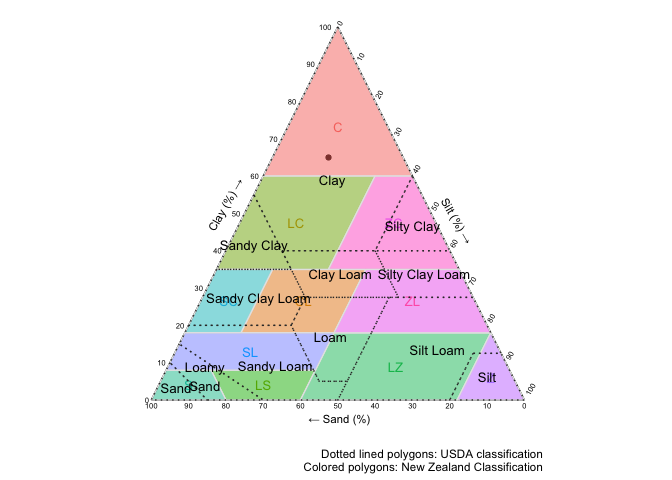
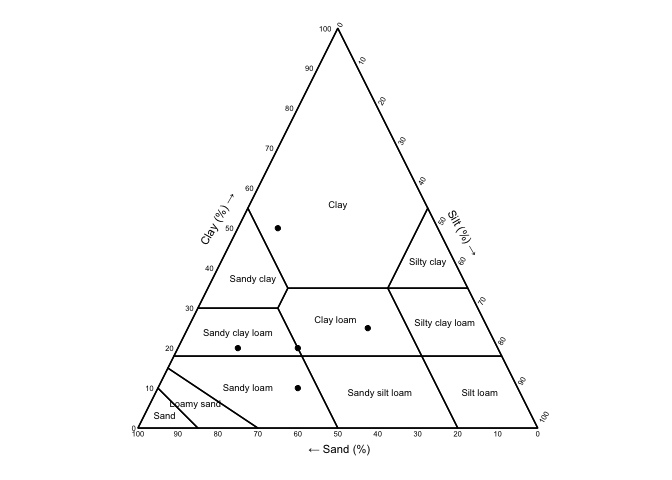
add UK class

Changed region(s): [[0.1875, 0.0312, 0.8125, 1.0]]

diff --git a/README.md b/README.md
@@ -8,7 +8,7 @@ please cite this repository. Hope it is useful!
 
 ## Acknowledgements
 
-The code was developed based on the ggplot_piper functions written by
+The code was development based on the ggplot_piper functions written by
 [Jonh Dorian](https://gist.github.com/johnDorian/5561272) and inspired
 by the R package [ggtern](https://github.com/nicholasehamilton/ggtern).
 Thanks for sharing your knowledge. Also, thanks for the X users that
@@ -108,11 +108,19 @@ ggsoiltexture(some_data,
 
 ![](README_files/figure-gfm/simple_plot-7-1.png)<!-- -->
 
+``` r
+ggsoiltexture(some_data,
+              show_grid = FALSE,
+              class = "SSEW")
+```
+
+![](README_files/figure-gfm/simple_plot-8-1.png)<!-- -->
+
 # Some examples
 
 ## Comparing two classification systems.
 
-The package has the polygon data for each type of classification so that
+The package has the polygon data for each type of classification, so
 they can be used separately for more advanced plotting. Due to the
 amount of information, it is recommended to remove all legends and add a
 description of the figure.
@@ -150,12 +158,12 @@ ggsoiltexture(tibble(sand = 20,
   labs(caption = "Dotted lined polygons: USDA classification\nColored polygons: New Zealand Classification")
 ```
 
-![](README_files/figure-gfm/simple_plot-8-1.png)<!-- -->
+![](README_files/figure-gfm/simple_plot-9-1.png)<!-- -->
 
 ## Using Munsell colors
 
 Munsell colors are widely used for soil classification. Using the
-library ´munsell´, the color can be transformed to hex color and be
+library ´munsell´ the color can be transformed to hexcolor and be
 plotted.
 
 ``` r
@@ -181,7 +189,7 @@ ggsoiltexture(munsell_data) +
 plot_munsell
 ```
 
-![](README_files/figure-gfm/simple_plot-9-1.png)<!-- -->
+![](README_files/figure-gfm/simple_plot-10-1.png)<!-- -->
 
 Even it is possible to facet them, due to is based on ggplot :)
 
